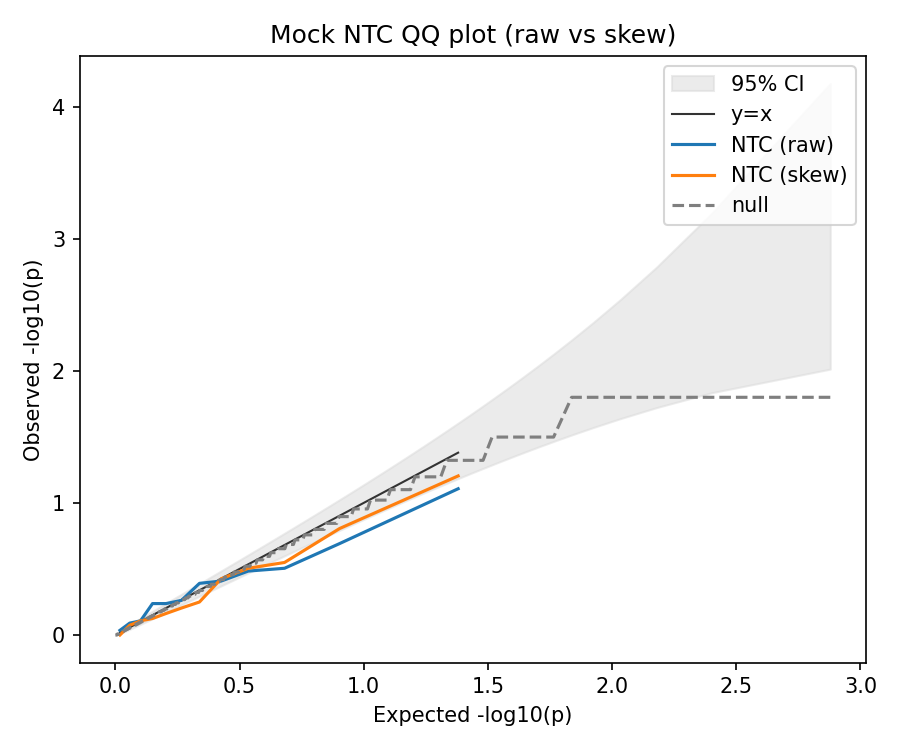
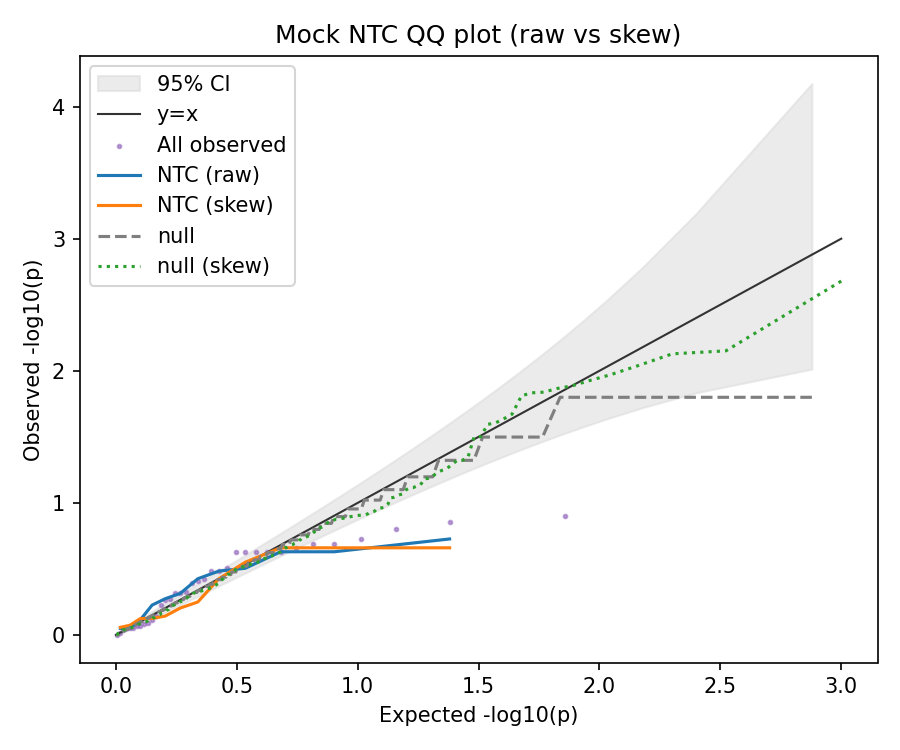
fix QQ plot

diff --git a/src/visualization/qq_plot.py b/src/visualization/qq_plot.py
@@ -29,21 +29,28 @@ def qq_plot_ntc_pvals(
     label_skew: str = "NTC (skew)",
     label_null: str = "null",
     label_null_skew: str = "null (skew)",
+    label_all: str = "All observed",
     color_ntc_raw: str = "#1f77b4",
     color_skew: str = "#ff7f0e",
     color_null: str = "#7f7f7f",
     color_null_skew: str = "#2ca02c",
+    color_all: str = "#9467bd",
+    all_marker: str = ".",
+    all_marker_size: float = 12.0,
+    all_alpha: float = 0.6,
     show_ref_line: bool = True,
     show_conf_band: bool = True,
     conf_alpha: float = 0.05,
     conf_color: str = "#d9d9d9",
+    show_all_pvals: bool = True,
 ):
     """
     QQ plot comparing NTC (negative-control) p-values to a CRT-null reference.
     If pvals_skew_df is provided, plots both raw and skew-calibrated curves.
     Provide null_pvals directly or pass null_stats to compute leave-one-out
     CRT-null p-values. Optionally plot a skew-normal null curve by fitting
-    to null_stats and sampling from the fitted distribution.
+    to null_stats and sampling from the fitted distribution. If show_all_pvals
+    is True, plot all observed p-values from pvals_raw_df.
     """
     if pvals_raw_df is None:
         raise ValueError("pvals_raw_df is required.")
@@ -89,6 +96,13 @@ def qq_plot_ntc_pvals(
             raise ValueError("null_pvals contains no finite values.")
         return np.clip(arr, 1e-300, 1.0)
 
+    def _extract_all_pvals(df: pd.DataFrame) -> np.ndarray:
+        pvals = df.to_numpy().ravel()
+        pvals = pvals[np.isfinite(pvals)]
+        if pvals.size == 0:
+            raise ValueError("No finite p-values available in pvals_raw_df.")
+        return np.clip(pvals, 1e-300, 1.0)
+
     pvals_raw = _extract_pvals(pvals_raw_df, "pvals_raw_df")
     x_raw, y_raw, m_raw = _qq_data(pvals_raw)
 
@@ -98,6 +112,12 @@ def qq_plot_ntc_pvals(
     else:
         x_skew = y_skew = None
         m_skew = 0
+
+    if show_all_pvals:
+        all_pvals = _extract_all_pvals(pvals_raw_df)
+        x_all, y_all, _ = _qq_data(all_pvals)
+    else:
+        x_all = y_all = None
 
     if null_pvals is None:
         null_arr = crt_null_pvals_from_null_stats_fast(
@@ -160,13 +180,27 @@ def qq_plot_ntc_pvals(
         )
 
     if show_ref_line:
-        xmin = float(np.min(x_raw))
-        xmax = float(np.max(x_raw))
+        x_candidates = [x_raw, x_null]
         if x_skew is not None:
-            xmin = min(xmin, float(np.min(x_skew)))
-            xmax = max(xmax, float(np.max(x_skew)))
+            x_candidates.append(x_skew)
+        if x_null_skew is not None:
+            x_candidates.append(x_null_skew)
+        if x_all is not None:
+            x_candidates.append(x_all)
+        xmin = min(float(np.min(x)) for x in x_candidates)
+        xmax = max(float(np.max(x)) for x in x_candidates)
         ax.plot([xmin, xmax], [xmin, xmax], color="#333333", linewidth=1.0, label="y=x")
 
+    if x_all is not None:
+        ax.scatter(
+            x_all,
+            y_all,
+            label=label_all,
+            color=color_all,
+            marker=all_marker,
+            s=all_marker_size,
+            alpha=all_alpha,
+        )
     ax.plot(x_raw, y_raw, label=label_ntc_raw, color=color_ntc_raw)
     if x_skew is not None:
         ax.plot(x_skew, y_skew, label=label_skew, color=color_skew)

diff --git a/tests/test_visualization.py b/tests/test_visualization.py
@@ -17,6 +17,7 @@ def test_qq_plot_ntc_pvals_raw_only():
         ntc_genes=["non-targeting", "safe-targeting"],
         pvals_skew_df=None,
         null_pvals=np.random.uniform(size=20),
+        show_all_pvals=True,
         show_ref_line=True,
         show_conf_band=False,
     )
@@ -37,6 +38,7 @@ def test_qq_plot_ntc_pvals_with_null_pvals():
         guide2gene=guide2gene,
         ntc_genes=["non-targeting", "safe-targeting"],
         null_pvals=null_pvals,
+        show_all_pvals=True,
         show_ref_line=True,
         show_conf_band=False,
     )
@@ -58,6 +60,9 @@ def test_qq_plot_ntc_pvals_with_null_stats():
         ntc_genes=["non-targeting", "safe-targeting"],
         null_stats=null_stats,
         null_two_sided=True,
+        show_null_skew=True,
+        null_skew_samples=200,
+        show_all_pvals=True,
         show_ref_line=True,
         show_conf_band=False,
     )

diff --git a/scripts/save_mock_qq_plot.py b/scripts/save_mock_qq_plot.py
@@ -69,15 +69,21 @@ def main() -> None:
         return_skew_normal=True,
     )
 
-    from src.sceptre import compute_gene_null_pvals
+    from src.sceptre import compute_gene_null_pvals, crt_null_stats_for_test
 
     null_pvals = compute_gene_null_pvals("non-targeting", inputs, B=63).ravel()
+    null_stats = crt_null_stats_for_test(
+        "non-targeting", 0, inputs, B=63
+    )
     ax = qq_plot_ntc_pvals(
         pvals_raw_df=out["pvals_raw_df"],
         guide2gene=adata.uns["guide2gene"],
         ntc_genes=["non-targeting", "safe-targeting"],
         pvals_skew_df=out["pvals_df"],
         null_pvals=null_pvals,
+        null_stats=null_stats,
+        show_null_skew=True,
+        null_skew_samples=500,
         title="Mock NTC QQ plot (raw vs skew)",
         show_ref_line=True,
         show_conf_band=True,

diff --git a/scripts/test_mock_crt.py b/scripts/test_mock_crt.py
@@ -78,15 +78,21 @@ def main() -> None:
         return_skew_normal=True,
     )
 
-    from src.sceptre import compute_gene_null_pvals
+    from src.sceptre import compute_gene_null_pvals, crt_null_stats_for_test
 
     null_pvals = compute_gene_null_pvals("non-targeting", inputs, B=31).ravel()
+    null_stats = crt_null_stats_for_test(
+        "non-targeting", 0, inputs, B=31
+    )
     ax = qq_plot_ntc_pvals(
         pvals_raw_df=out["pvals_raw_df"],
         guide2gene=adata.uns["guide2gene"],
         ntc_genes=["non-targeting", "safe-targeting"],
         pvals_skew_df=out["pvals_df"],
         null_pvals=null_pvals,
+        null_stats=null_stats,
+        show_null_skew=True,
+        null_skew_samples=200,
         show_ref_line=True,
         show_conf_band=True,
     )

diff --git a/README.md b/README.md
@@ -379,10 +379,14 @@ Use this to sanity-check calibration of p-values for negative-control genes.
 If you have both raw and skew-calibrated p-values, pass both to compare them.
 Provide CRT-null p-values (from resampling) via `null_pvals`, or pass `null_stats`
 and let the QQ helper compute leave-one-out CRT-null p-values for you.
+Optionally set `show_null_skew=True` to add a second null curve drawn from a
+skew-normal fit to `null_stats`.
 Compute null p-values with `compute_gene_null_pvals` (typically using an NTC gene).
+By default, the plot also includes an "All observed" scatter using all rows in
+`pvals_raw_df` (set `show_all_pvals=False` to disable).
 
 ```python
-from src.sceptre import compute_gene_null_pvals
+from src.sceptre import compute_gene_null_pvals, crt_null_stats_for_test
 from src.visualization import qq_plot_ntc_pvals
 
 # Single run that returns both raw and skew-calibrated p-values
@@ -396,6 +400,7 @@ out = run_all_genes_union_crt(
 )
 
 null_pvals = compute_gene_null_pvals("non-targeting", inputs, B=1023).ravel()
+null_stats = crt_null_stats_for_test("non-targeting", 0, inputs, B=1023)
 
 ax = qq_plot_ntc_pvals(
     pvals_raw_df=out["pvals_raw_df"],     # raw CRT p-values
@@ -403,6 +408,9 @@ ax = qq_plot_ntc_pvals(
     ntc_genes=["non-targeting", "safe-targeting"],
     pvals_skew_df=out["pvals_df"],        # skew-calibrated p-values
     null_pvals=null_pvals,
+    null_stats=null_stats,
+    show_null_skew=True,
+    show_all_pvals=True,
     title="QQ plot: NTC genes (raw vs skew) vs null",
     show_ref_line=True,
     show_conf_band=True,
@@ -429,6 +437,9 @@ ax = qq_plot_ntc_pvals(
     guide2gene=adata.uns["guide2gene"],
     ntc_genes=["non-targeting", "safe-targeting"],
     null_pvals=null_pvals,
+    null_stats=null_stats,
+    show_null_skew=True,
+    show_all_pvals=True,
     title="QQ plot: NTC genes (raw) vs null",
 )
 ```
